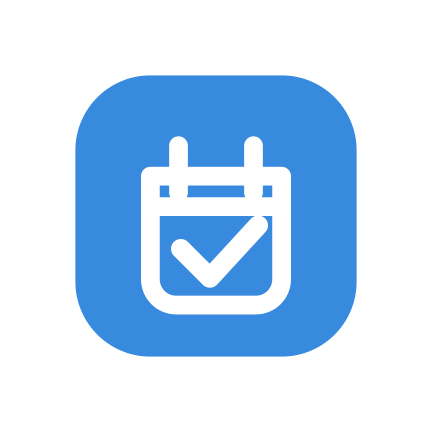
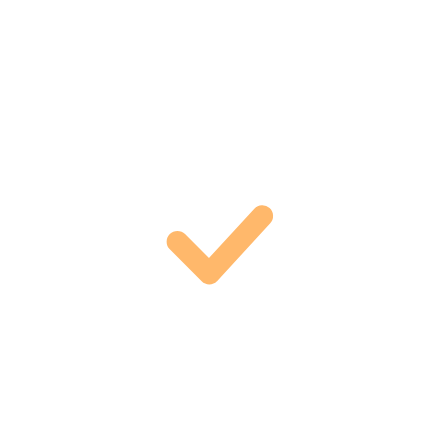
feat(brand): switch to the teal + apricot brand palette
- New light and dark theme values, matching the web design system:
  teal for actions and brand emphasis (tabs, eyebrows, spinners,
  switches, confirmed states) and a new apricot "highlight" token for
  small warm accents.
- StatusPill gets a "highlight" tone; the VIP client pill uses it.
- BrandLockup keeps the same teal mark in light and dark themes
  (new logo / logoInk tokens).
- New app icon (full-bleed teal, white calendar, apricot check),
  Android adaptive foreground on a teal background, splash on teal,
  favicon, brand mark and social avatar.
- App background and status bar colors follow the new light palette.

The new icons and splash appear after the next native build.

diff --git a/src/constants/vizit-theme.ts b/src/constants/vizit-theme.ts
@@ -65,25 +65,33 @@ const shared = {
 export const themes = {
   light: {
     ...shared,
-    background: '#FAF9F5',
-    surface: '#F1EEE5',
+    background: '#F7F8F6',
+    surface: '#EEF2F0',
     surfaceRaised: '#FFFFFF',
     surfaceElevated: '#FFFFFF',
-    surfacePressed: '#ECE8DD',
-    text: '#1C1B18',
-    textSecondary: '#5C574C',
-    muted: '#6B675E',
-    faint: '#6D6A61',
-    border: '#E8E4D9',
-    borderStrong: '#D9D4C5',
-    divider: '#EEEAE0',
-    primary: '#1F6D5A',
-    primaryPressed: '#175945',
+    surfacePressed: '#E3E9E6',
+    text: '#10201D',
+    textSecondary: '#43524E',
+    muted: '#55635F',
+    faint: '#5D6B67',
+    border: '#DFE6E3',
+    borderStrong: '#CBD5D1',
+    divider: '#E8EDEB',
+    primary: '#0F766E',
+    primaryPressed: '#115E59',
     onPrimary: '#FFFFFF',
-    accent: '#C9A15A',
-    accentText: '#8A6A2E',
-    accentSoft: '#F6ECDA',
-    accentSubtle: '#FAF4E9',
+    // Brand mark keeps the same colors in both themes.
+    logo: '#0F766E',
+    logoInk: '#FFFFFF',
+    // Brand emphasis: active tabs, eyebrows, spinners, switches, confirmed states.
+    accent: '#0D9488',
+    accentText: '#0F766E',
+    accentSoft: '#E0F2EF',
+    accentSubtle: '#F0F8F6',
+    // Warm signature accent, used sparingly: badges, dots, ratings, the logo check.
+    highlight: '#F59A3C',
+    highlightText: '#9A4A06',
+    highlightSoft: '#FDEBD6',
     success: '#3F8F63',
     successSoft: '#E7F3EA',
     warning: '#B98328',
@@ -92,41 +100,46 @@ export const themes = {
     dangerSoft: '#FBEAE8',
     info: '#4C6FA5',
     infoSoft: '#EAEFF6',
-    shadow: '#1C1B18',
-    scrim: 'rgba(28, 27, 24, 0.5)',
-    map: '#EFEBE0',
+    shadow: '#10201D',
+    scrim: 'rgba(16, 32, 29, 0.5)',
+    map: '#E8EEEB',
 
     // Compatibility aliases used by existing feature screens.
-    cream: '#F3EFE4',
-    peach: '#F0E4D3',
-    peachSoft: '#FAF3E7',
-    plum: '#1F6D5A',
-    plumStrong: '#154A3D',
-    plumSoft: '#E7F1EC',
-    gold: '#C9A15A',
-    goldSoft: '#F6ECDA',
+    cream: '#EEF2F0',
+    peach: '#FDEBD6',
+    peachSoft: '#FEF5EA',
+    plum: '#0F766E',
+    plumStrong: '#134E4A',
+    plumSoft: '#E0F2EF',
+    gold: '#F59A3C',
+    goldSoft: '#FDEBD6',
   },
   dark: {
     ...shared,
-    background: '#18191A',
-    surface: '#202123',
-    surfaceRaised: '#242527',
-    surfaceElevated: '#2B2C2F',
-    surfacePressed: '#323335',
-    text: '#F2F0EA',
-    textSecondary: '#C7C3B8',
-    muted: '#9C988D',
-    faint: '#9C9992',
-    border: '#333335',
-    borderStrong: '#3F4042',
-    divider: '#2C2D2F',
-    primary: '#EFE9DC',
-    primaryPressed: '#DCD5C4',
-    onPrimary: '#1C1B18',
-    accent: '#49B08D',
-    accentText: '#6BC7A4',
-    accentSoft: 'rgba(73, 176, 141, 0.16)',
-    accentSubtle: 'rgba(73, 176, 141, 0.08)',
+    background: '#0D1513',
+    surface: '#111A18',
+    surfaceRaised: '#15201D',
+    surfaceElevated: '#1C2925',
+    surfacePressed: '#22302C',
+    text: '#ECF3F1',
+    textSecondary: '#C4D1CD',
+    muted: '#94A7A2',
+    faint: '#8FA29D',
+    border: '#23302D',
+    borderStrong: '#2F3E3A',
+    divider: '#1E2A27',
+    primary: '#2DD4BF',
+    primaryPressed: '#14B8A6',
+    onPrimary: '#04201B',
+    logo: '#0F766E',
+    logoInk: '#FFFFFF',
+    accent: '#2DD4BF',
+    accentText: '#5EEAD4',
+    accentSoft: 'rgba(45, 212, 191, 0.14)',
+    accentSubtle: 'rgba(45, 212, 191, 0.07)',
+    highlight: '#FFAE5C',
+    highlightText: '#FFB870',
+    highlightSoft: 'rgba(255, 174, 92, 0.16)',
     success: '#5FBE95',
     successSoft: 'rgba(95, 190, 149, 0.16)',
     warning: '#D7AD5E',
@@ -137,17 +150,17 @@ export const themes = {
     infoSoft: 'rgba(127, 163, 209, 0.16)',
     shadow: '#000000',
     scrim: 'rgba(0, 0, 0, 0.68)',
-    map: '#1D1E20',
+    map: '#16211E',
 
     // Compatibility aliases used by existing feature screens.
-    cream: '#242527',
-    peach: '#2E2B26',
-    peachSoft: 'rgba(215, 173, 94, 0.08)',
-    plum: '#49B08D',
-    plumStrong: '#EFE9DC',
-    plumSoft: 'rgba(73, 176, 141, 0.16)',
-    gold: '#D7AD5E',
-    goldSoft: 'rgba(215, 173, 94, 0.16)',
+    cream: '#15201D',
+    peach: '#2E241A',
+    peachSoft: 'rgba(255, 174, 92, 0.08)',
+    plum: '#2DD4BF',
+    plumStrong: '#5EEAD4',
+    plumSoft: 'rgba(45, 212, 191, 0.14)',
+    gold: '#FFAE5C',
+    goldSoft: 'rgba(255, 174, 92, 0.16)',
   },
 } as const;
 

diff --git a/src/components/premium-ui.tsx b/src/components/premium-ui.tsx
@@ -20,11 +20,12 @@ type IconProps = React.ComponentProps<typeof VizitIcon>;
 export function BrandLockup({ compact = false, inverse = false }: { compact?: boolean; inverse?: boolean }) {
   const { theme } = useApp();
   const foreground = inverse ? theme.onPrimary : theme.text;
-  const markBackground = inverse ? 'rgba(255,255,255,0.13)' : theme.primary;
+  const markBackground = inverse ? 'rgba(255,255,255,0.13)' : theme.logo;
+  const markInk = inverse ? theme.onPrimary : theme.logoInk;
   return (
     <View style={styles.brandRow}>
       <View style={[styles.brandMark, compact && styles.brandMarkCompact, { backgroundColor: markBackground }]}>
-        <VizitIcon ios="calendar.badge.checkmark" android="event_available" color={theme.onPrimary} size={compact ? 20 : 24} />
+        <VizitIcon ios="calendar.badge.checkmark" android="event_available" color={markInk} size={compact ? 20 : 24} />
       </View>
       <Text style={[styles.brandText, compact && styles.brandTextCompact, { color: foreground }]}>Vizit</Text>
     </View>
@@ -216,10 +217,10 @@ export function PremiumInput({
   );
 }
 
-export function StatusPill({ label, tone = 'neutral' }: { label: string; tone?: 'neutral' | 'accent' | 'success' | 'warning' | 'danger' }) {
+export function StatusPill({ label, tone = 'neutral' }: { label: string; tone?: 'neutral' | 'accent' | 'highlight' | 'success' | 'warning' | 'danger' }) {
   const { theme } = useApp();
-  const background = tone === 'success' ? theme.successSoft : tone === 'warning' ? theme.warningSoft : tone === 'danger' ? theme.dangerSoft : tone === 'accent' ? theme.accentSoft : theme.surface;
-  const foreground = tone === 'success' ? theme.success : tone === 'warning' ? theme.warning : tone === 'danger' ? theme.danger : tone === 'accent' ? theme.accentText : theme.muted;
+  const background = tone === 'success' ? theme.successSoft : tone === 'warning' ? theme.warningSoft : tone === 'danger' ? theme.dangerSoft : tone === 'accent' ? theme.accentSoft : tone === 'highlight' ? theme.highlightSoft : theme.surface;
+  const foreground = tone === 'success' ? theme.success : tone === 'warning' ? theme.warning : tone === 'danger' ? theme.danger : tone === 'accent' ? theme.accentText : tone === 'highlight' ? theme.highlightText : theme.muted;
   return (
     <View style={[styles.pill, { backgroundColor: background }]}>
       <View style={[styles.pillDot, { backgroundColor: foreground }]} />

diff --git a/src/app/(business)/client-detail.tsx b/src/app/(business)/client-detail.tsx
@@ -70,7 +70,7 @@ export default function ClientDetail() {
           subtitle={data.phone || data.email || c.title}
           backLabel={c.back}
           onBack={() => safeBack('/(business)/clients')}
-          action={data.is_vip ? <StatusPill label="VIP" tone="accent" /> : undefined}
+          action={data.is_vip ? <StatusPill label="VIP" tone="highlight" /> : undefined}
         />
 
         <View style={styles.stats}>
